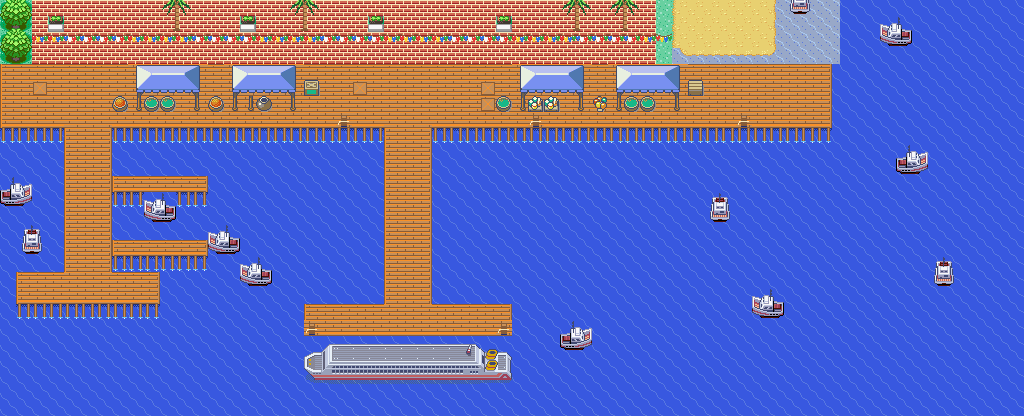
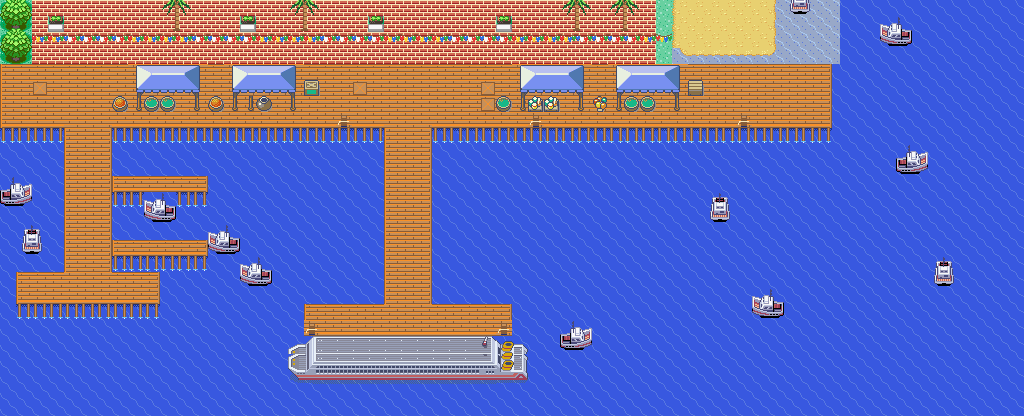
Port: slightly bigger cruise ship, moored right against the platform
Claude-Session: https://claude.ai/code/session_015nAeBdQj1XXGE9TrWVaT6H

Changed region(s): [[0.2812, 0.7812, 0.5312, 0.9375]]

diff --git a/dev_scripts/lilycove_redesign/authentic_art.py b/dev_scripts/lilycove_redesign/authentic_art.py
@@ -45,11 +45,18 @@ def from_map(layout, width, sec, x0, y0, w, h, bg):
     return out
 
 def stretch_tidal():
+    """S.S. Tidal lengthened (window section x10) and slightly taller (deck strip repeated)."""
     s = sprite('graphics/object_events/pics/misc/ss_tidal.png', 'graphics/object_events/palettes/ss_tidal.pal')
-    parts = [s.crop((0, 0, 32, 40))] + [s.crop((32, 0, 48, 40))] * 8 + [s.crop((48, 0, 96, 40))]
+    # taller: repeat an 8px strip of the upper deck
+    tall = Image.new('RGBA', (s.width, s.height + 8), (0, 0, 0, 0))
+    tall.paste(s.crop((0, 0, s.width, 18)), (0, 0))
+    tall.paste(s.crop((0, 10, s.width, 18)), (0, 18))
+    tall.paste(s.crop((0, 18, s.width, s.height)), (0, 26))
+    s = tall
+    parts = [s.crop((0, 0, 32, s.height))] + [s.crop((32, 0, 48, s.height))] * 10 + [s.crop((48, 0, 96, s.height))]
     w = sum(p.width for p in parts)
     out = Image.new('RGBA', (w, 48), (0, 0, 0, 0)); x = 0
-    for p in parts: out.paste(p, (x, 8)); x += p.width
+    for p in parts: out.paste(p, (x, 0)); x += p.width      # top-aligned: hugs the pier
     return out
 
 def slateport(x0, y0, w, h, bg=0x211):

diff --git a/dev_scripts/lilycove_redesign/layout.py b/dev_scripts/lilycove_redesign/layout.py
@@ -126,7 +126,7 @@ for x in range(0,52):
 # main pier: long, the cruise ship is moored along its east side
 pier(MAIN_PIER,44,55)
 deck(19,32,55,57,joins_top=(MAIN_PIER,MAIN_PIER+1,MAIN_PIER+2))
-art('cruise',19,57)   # moored along the landing platform
+art('cruise',18,57)   # moored along the landing platform
 
 # fishermen's pier with two finger docks and moored boats
 pier(FISH_PIER,44,53)
